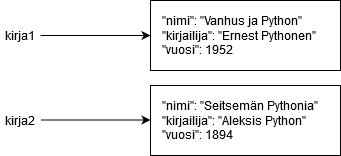
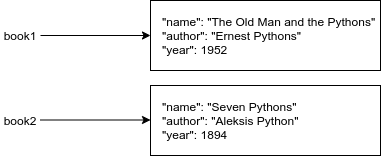
8-2 done

diff --git a/data/part-8/2-classes-and-objects.md b/data/part-8/2-classes-and-objects.md
@@ -8,48 +8,48 @@ hidden: false
 
 After this section
 
-- Tiedät, mitä tarkoitetaan luokalla
-- Ymmärrät luokan ja olion yhteyden
-- Tiedät, mitä olio-ohjelmointi tarkoittaa
+- You will know what a class is
+- You will understand what the connection between a class and an object is
+- You will know what is meant by object oriented programming
 
 </text-box>
 
-Edellisessä osassa käsitellyt esimerkkioliot – listat, tuplet, sanakirjat ja merkkijonot – ovat siinä mielessä erikoistapauksia, että niiden kaikkien muodostamiseen on Pythonissa sisäänrakennettuna oma syntaksinsa:
+In the previous section we worked with lists, tuples, dictionaries and strings. These are all rather special cases in Python programming. Python syntax features a unique, pre-defined method of declaring an object belonging to each of these types:
 
 ```python
-# Lista luodaan antamalla arvot hakasuluissa
-lista = [1,2,3]
+# Lists are declared with square brackets
+my_list = [1,2,3]
 
-# Merkkijonovakio tunnistetaan lainausmerkeistä
-mjono = "Moi kaikki!"
+# Strings are declared with quotation marks
+my_string = "Hi there!"
 
-# Sanakirja luodaan aaltosulkeilla
-sanakirja = {"yksi": 1, "kaksi:": 2}
+# Dictionaries are declared with curly brackets
+my_dict = {"one": 1, "two:": 2}
 
-# Tuplessa arvot ovat sulkeissa
-oma_tuple = (1,2,3)
+# Tuples are declared with parentheses
+my_tuple = (1,2,3)
 ```
 
-Muita olioita muodostettaessa kutsutaan erityistä metodia, joka luo olion. Tällaista metodia kutsutaan _konstruktoriksi_. Tarkastellaan esimerkkinä murtolukuolioiden muodostamista Fraction-luokasta:
+When some other type of object is declared, we need to call a special initialization function called a _constructor_. Let's have a look at working with fractions through the `Fraction` class.
 
 ```python
-# Tuodaan käyttöön luokka Fraction modulista fractions
+# we are using the class Fraction from the module fractions
 from fractions import Fraction
 
-# Luodaan pari uutta murtolukuoliota
-puolikas = Fraction(1,2)
+# create some new fraactions
+half = Fraction(1,2)
 
-kolmasosa = Fraction(1,3)
+third = Fraction(1,3)
 
-kolmas = Fraction(3,11)
+another = Fraction(3,11)
 
-# Tulostetaan
-print(puolikas)
-print(kolmasosa)
-print(kolmas)
+# print these out
+print(half)
+print(third)
+print(another)
 
-# Murtoluvuilla voi myös laskea
-print(puolikas + kolmasosa)
+# Fractions can be added together, for example
+print(half + third)
 ```
 
 <sample-output>
@@ -61,31 +61,31 @@ print(puolikas + kolmasosa)
 
 </sample-output>
 
-Esimerkistä huomataan, että konstuktorikutsut poikkeavat aiemmista metodikutsuista. Konstruktorikutsuja ei ole sidottu tiettyyn olioon (mikä on sikäli loogista, että olio muodostetaan kutsumalla konstruktoria). Lisäksi metodin nimi on kirjoitettu isolla alkukirjaimella: `puolikas = Fraction(1,2)`. Pureudutaan tarkemmin olion muodostamisen mekanismiin esittelemällä _luokan_ käsite.
+As you can see above, constructor method calls look a little different than the normal method calls we have come across before. For one, they are not attached to any object with the dot notation (as the constructor call is needed to create an object in the first place). The constructor method is also capitalized: `half = Fraction(1,2)`. Let's have a closer look at how objects are constructed by getting familiar with the concept of the _class_.
 
-## Luokka on olion käsikirjoitus
+## A class is the blueprint of an object
 
-Materiaalissa on jo aiemmin vilahtanut käsite _luokka_. Edellisessä esimerkissä otettiin käyttöön luokka `Fraction` moduulista `fractions`. Uudet oliot muodostettiin kutsumalla luokan `Fraction` _konstruktoria_.
+We have already used the term _class_ in the material many times. For instamce, in the example above we imported the `Fraction` class from the module `fractions`. New fraction objects were created by calling the _constructor_ method of the `Fraction` class.
 
-Luokassa määritellään siitä muodostettavien olioiden rakenne ja toiminnallisuus. Luokkaa nimitetään tästä syystä joskus olion käsikirjoitukseksi. Luokassa siis kerrotaan, millaista tietoa olio sisältää, ja määritellään metodit, joiden avulla oliota voidaan käsitellä. _Olio-ohjelmoinnilla_ tarkoitetaan ohjelmointitapaa, jossa ohjelman toiminnallisuus tapahtuu luokkien ja niistä muodostettujen olioiden avulla.
+A class definition contains the structure and functionalities of any object which represents it. That is why classes are sometimes referred to as the blueprints of objects. So, a class definition tells you what kind of data an object contains, and defines also the methods which can be used on the object. _Object oriented programmind_ refers to a programming paradigm where the functionality of the program is tied into the use of classes and objects created based on them.
 
-Yhdestä luokasta voidaan muodostaa useita olioita. Niin kuin aiemmin kerrottiin, oliot ovat itsenäisiä - muutokset olioon eivät vaikuta muihin luokasta muodostettuihin olioihin. Jokaisella oliolla on oma tietosisältönsä. Vähän yksinkertaistaen voisi sanoa, että
+A single class definition can be used to create multiple objects. As mentioned before, objects are independent. Changes made to one object generally do not affect the other objects representing the same class. Each object has its own unique set of data attributes. It might be helpful to consider this simplification of the class-object relationship:
 
-* luokassa määritellään muuttujat ja
-* oliota muodostaessa niille annetaan arvot.
+* a class defines the variables 
+* when an object is created, those variables are assigned values
 
-Luodaan esimerkkinä `Fraction`-luokasta olio ja tulostetaan sen osoittaja ja nimittäjä:
+So, we can use an object of type `Fraction` to access the numerator and denominator of a fractional number:
 
 ```python
 from fractions import Fraction
 
-luku = Fraction(2,5)
+number = Fraction(2,5)
 
-# Tulostetaan osoittaja
-print(luku.numerator)
+# Print the numerator
+print(number.numerator)
 
-# ...ja sitten nimittäjä
-print(luku.denominator)
+# ...and the denominator
+print(number.denominator)
 ```
 
 <sample-output>
@@ -95,19 +95,19 @@ print(luku.denominator)
 
 </sample-output>
 
-Luokassa `Fraction` on siis määritelty, että olioilla on muuttujat `numerator` ja `denominator`. Jokaisella oliolla on kuitenkin oma arvonsa näille muuttujille.
+The `Fraction` class definition contains declarations for the variables `numerator` and `denominator`. Each object created based on the class has its own specific values assigned to these variables.
 
-Samalla tavalla `date`-luokasta muodostetuilla olioilla on kaikilla omat itsenäiset arvonsa vuodelle, kuukaudelle ja päivämäärälle:
+Similarly, objects created based on the `date` class each contain their own unique values for the year, month and day of the date:
 
 ```python
 from datetime import date
 
-joulu = date(2020, 12, 24)
-juhannus = date(2020, 6, 20)
+xmas_eve = date(2020, 12, 24)
+midsummer = date(2020, 6, 20)
 
-# Tulostetaan kuukaudet molemmista
-print(joulu.month)
-print(juhannus.month)
+# print only the month attribute of both objects
+print(xmas_eve.month)
+print(midsummer.month)
 ```
 
 <sample-output>
@@ -117,28 +117,28 @@ print(juhannus.month)
 
 </sample-output>
 
-Luokassa `date` on siis määritelty, että luokasta muodostettavilla olioilla on muuttujat `year`, `month` ja `day`. Kun luokasta muodostetaan olio, annetaan muuttujille arvot. Joka oliolla on omat arvonsa muuttujille.
+The `date` class definitions contains declarations of the `year`, `month` and `day` variables. When a new `date` object d created based on the class, these variables are assigned values. Each object has its own unique values assigned to these variables.
 
-## Olioita käsittelevät funktiot
+## Functions which work with objects
 
-Funktioiden parametrina oleviin olioihin ei liity oikeastaan mitään sen kummempaa. Niitä on jo kurssin aiemmissa osissa nähty runsaasti. Seuraavassa on esimerkki funktiosta, joka tarkastaa, onko sen parametrina oleva `date`-olio viikonloppu:
+Passing an object as an argument to a function should be familiar to you by now, as we have done so many times on this course so far. Let's have a look at the following example. Here we have a function which checks if the `date` object passed as an argument falls on a weekend:
 
 ```python
-def onko_viikonloppu(paiva: date):
-    viikonpaiva = paiva.isoweekday()
-    return viikonpaiva == 6 or viikonpaiva == 7
+def is_it_weekend(my_date: date):
+    weekday = my_date.isoweekday()
+    return weekday == 6 or weekday == 7
 ```
 
-Funktio siis  käyttää parametrina olevan olion metodia [isoweekday](https://docs.python.org/3/library/datetime.html#datetime.date.isoweekday), joka palauttaa viikonpäivää vastaavan numeron niin, että maanantai on 1, tiistai on 2, jne.
+This function uses the method [isoweekday](https://docs.python.org/3/library/datetime.html#datetime.date.isoweekday), which is defined in the `date` class definition, and returns an integer value so that if the date given is a Monday, it returns 1, and if it is a Tuesday, it returns 2, and so forth.
 
-Funktiota käytetään seuraavasti:
+You can use the above function like this:
 
 ```python
-joulu = date(2020, 12, 24)
-juhannus = date(2020, 6, 20)
+xmas_eve = date(2020, 12, 24)
+midsummer = date(2020, 6, 20)
 
-print(onko_viikonloppu(joulu))
-print(onko_viikonloppu(juhannus))
+print(is_it_weekend(xmas_eve))
+print(is_it_weekend(midsummer))
 ```
 
 <sample-output>
@@ -148,59 +148,59 @@ True
 
 </sample-output>
 
-## Metodi vs. olion muuttuja
+## Methods vs variables
 
-Jos tarkastellaan `date`-oliota, niin huomataan, että sen käsittely poikkeaa hieman riippuen siitä, mitä asiaa olion sisällöstä tarkastellaan:
+When working with an object of type `date` you may notice there is a slight difference between how the variables contained in the object are accessed, as opposed to how the methods attached to the objects are used:
 
 ```python
-paiva = date(2020, 12, 24)
+my_date = date(2020, 12, 24)
 
-# kutsutaan metodia
-viikonpaiva = paiva.isoweekday()
+# calling a method
+weekday = my_date.isoweekday()
 
-# viitataan olion muuttujaan
-kuukausi = paiva.month
+# accessing a variable 
+my_month = my_date.month
 
-print("Viikonpäivä:", viikonpaiva)
-print("Kuukausi:", kuukausi)
+print("The day of the week:", weekday)
+print("The month:", my_month)
 ```
 
 <sample-output>
 
-Viikonpäivä: 4
-Kuukausi: 12
+The day of the week: 4
+The month: 12
 
 </sample-output>
 
-Päiväolion viikonpäivä saadaan siis selville kutsumalla _metodia_ isoweekday:
+The day of the week the date falls on is available through the _method_ `isoweekday`:
 
 ```python
-viikonpaiva = paiva.isoweekday()
+weekday = my_date.isoweekday()
 ```
 
-Koska on kyse metodikutsusta, niin metodin nimen perään laitetaan sulut. Jos sulut unohtuvat, on lopputulos outo:
+This is a method call, so there are parentheses after the name of the method. Leaving the parentheses out does not cause an error, but the results are weird:
 
 ```python
-viikonpaiva =  paiva.isoweekday
-print("Viikonpäivä:", viikonpaiva)
+weekday =  my_date.isoweekday
+print("The day of the week:", weekday)
 ```
 
 <sample-output>
 
-Viikonpäivä: <built-in method isoweekday of datetime.date object at 0x10ed66450>
+The day of the week: <built-in method isoweekday of datetime.date object at 0x10ed66450>
 
 </sample-output>
 
-Päiväolioon liittyvä kuukausi taas on olion muuttuja, ja sen arvo selviää _viittaamalla_ muuttujaan
+The month of a `date` object is a variable, so the value attached can be accessed with a _reference_.
 
 ```python
-kuukausi = paiva.month
+my_month = my_date.month
 ```
 
-Nyt siis käytössä _ei ole sulkuja_. Jos tässä tilanteessa yritettäisiin käyttää sulkuja, ohjelma aiheuttaisi virheen:
+Notice there are _no parentheses_ here. Adding parentheses _would_ cause an error:
 
 ```python
-kuukausi = paiva.month()
+my_month = my_date.month()
 ```
 
 <sample-output>

diff --git a/data/part-8/1-objects-and-methods.md b/data/part-8/1-objects-and-methods.md
@@ -105,7 +105,7 @@ Ernest Pythons
 
 </sample-output>
 
-Similarly, string methods target the string object which they are called on. Some examples of string methods include `count` ja `find`:
+Similarly, string methods target the string object which they are called on. Some examples of string methods include `count` and `find`:
 
 ```python
 name = "Imaginary Irene"
